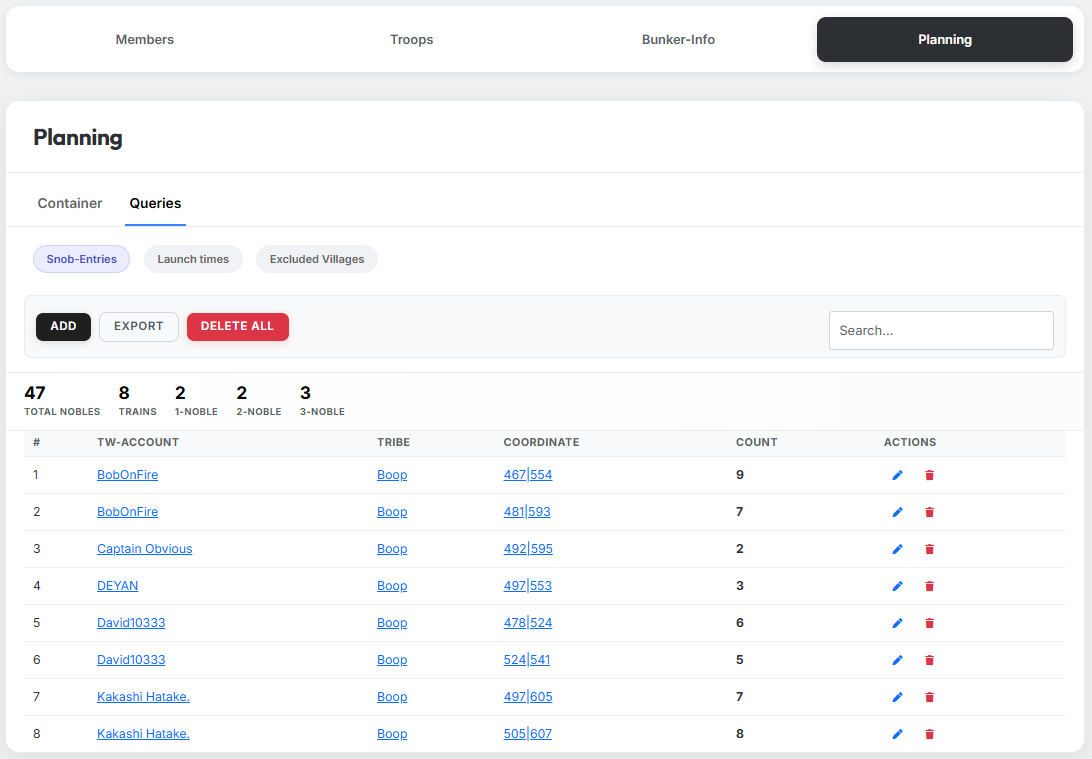
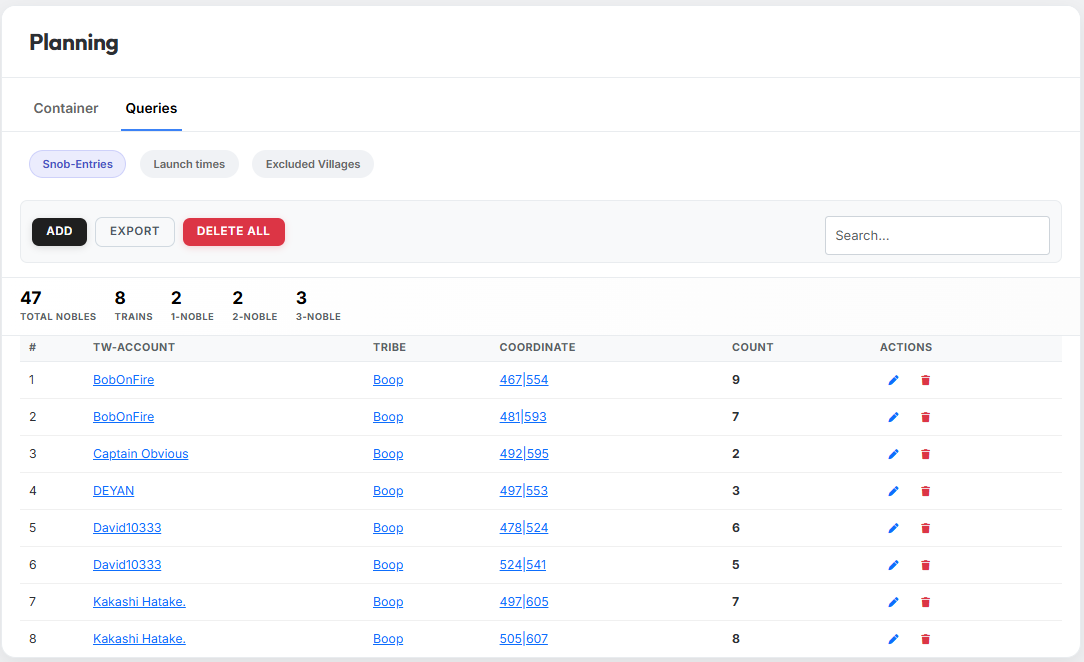
Deployed 3e10325 with MkDocs version: 1.6.1

diff --git a/leader-view/planung/index.html b/leader-view/planung/index.html
@@ -1991,7 +1991,8 @@ gliedert sich in zwei Unterreiter:</p>
 <h2 id="abfragen">Abfragen<a class="headerlink" href="#abfragen" title="Permanent link">¶</a></h2>
 <p>Unter dem Reiter <strong>„Abfragen"</strong> findest du drei Pill-Tabs:
 <strong>AG-Meldungen</strong>, <strong>Abschickzeiten</strong> und <strong>Ausgeplante Dörfer</strong>. Sie
-liefern die drei wichtigsten Inputs für die Off-Planung.</p>
+liefern die drei wichtigsten Inputs für die Off-Planung, welche von
+den Stammesmembern bereitgestellt werden müssen.</p>
 <div class="admonition info">
 <p class="admonition-title">Daten kommen i. d. R. aus dem Discordbot</p>
 <p>AG-Meldungen, Abschickzeiten und ausgeplante Herkunftsdörfer geben
@@ -2002,9 +2003,8 @@ Leader können aber jederzeit auch manuell Einträge anlegen,
 bearbeiten oder löschen.</p>
 </div>
 <h3 id="ag-meldungen">AG-Meldungen<a class="headerlink" href="#ag-meldungen" title="Permanent link">¶</a></h3>
-<p>In diesem Bereich sammelst du Meldungen, wie viele AGs welcher Spieler
-auf welche Zieldörfer fertig hat. Die Liste ist die Basis für die
-spätere AG-Planung.</p>
+<p>In diesem Bereich werden die AG-Meldungen verwaltet. Die Liste ist die
+Basis für die spätere AG-Planung.</p>
 <p><a class="glightbox" data-type="image" data-width="auto" data-height="auto" href="../../assets/leaderview/15_leaderview_planning_snobqueries_overview.png" data-title="AG-Meldungen — Übersicht" data-desc-position="bottom"><img alt="AG-Meldungen — Übersicht" class="screenshot" src="../../assets/leaderview/15_leaderview_planning_snobqueries_overview.png"></a></p>
 <p>Oben siehst du eine <strong>Kennzahlen-Leiste</strong>, die alle Meldungen
 zusammenfasst:</p>
@@ -2038,11 +2038,11 @@ zusammenfasst:</p>
 </tr>
 <tr>
 <td><strong>Koordinate</strong></td>
-<td>Zieldorf der Meldung</td>
+<td>Herkunftsdorf der Meldung</td>
 </tr>
 <tr>
 <td><strong>Anzahl</strong></td>
-<td>Wie viele AGs der Spieler auf dieses Zieldorf fertig hat</td>
+<td>Wie viele AGs der Spieler aus diesem Herkunftsdorf fertig hat</td>
 </tr>
 <tr>
 <td><strong>Aktionen</strong></td>
@@ -2056,12 +2056,12 @@ zusammenfasst:</p>
 <p><a class="glightbox" data-type="image" data-width="auto" data-height="auto" href="../../assets/leaderview/16_leaderview_planning_snobqueries_add.png" data-title="AG-Meldung hinzufügen" data-desc-position="bottom"><img alt="AG-Meldung hinzufügen" class="screenshot" src="../../assets/leaderview/16_leaderview_planning_snobqueries_add.png"></a></p>
 <p>Der Dialog <strong>„AG-Meldung hinzufügen"</strong> enthält zwei Felder:</p>
 <ul>
-<li><strong>Koordinaten (Text mit Koords)</strong> — eine oder mehrere Zielkoordinaten;
-  umgebender Text wird ignoriert (z. B. <code>Angriff auf 500|500 und
-  501|501…</code>).</li>
-<li><strong>Anzahl AGs (pro Dorf)</strong> — wie viele AGs der Spieler pro Zieldorf
-  fertig hat. Der eingegebene Wert gilt für <strong>alle</strong> in Schritt 1
-  erkannten Koordinaten.</li>
+<li><strong>Koordinaten (Text mit Koords)</strong> — eine oder mehrere
+  Herkunftskoordinaten; umgebender Text wird ignoriert (z. B.
+  <code>AGs fertig in 500|500 und 501|501…</code>).</li>
+<li><strong>Anzahl AGs (pro Dorf)</strong> — wie viele AGs der Spieler pro
+  Herkunftsdorf fertig hat. Der eingegebene Wert gilt für <strong>alle</strong> in
+  Schritt 1 erkannten Koordinaten.</li>
 </ul>
 <h3 id="abschickzeiten">Abschickzeiten<a class="headerlink" href="#abschickzeiten" title="Permanent link">¶</a></h3>
 <p>Hier sammelst du die individuellen Abschickfenster der Spieler — also

diff --git a/en/leader-view/planung/index.html b/en/leader-view/planung/index.html
@@ -1991,7 +1991,8 @@ split into two sub-tabs:</p>
 <h2 id="queries">Queries<a class="headerlink" href="#queries" title="Permanent link">¶</a></h2>
 <p>Under the <strong>"Queries"</strong> sub-tab you'll find three pill tabs:
 <strong>Snob-Entries</strong>, <strong>Launch times</strong> and <strong>Excluded Villages</strong>. They
-provide the three most important inputs for nuke planning.</p>
+provide the three most important inputs for nuke planning and must be
+supplied by the tribe members.</p>
 <div class="admonition info">
 <p class="admonition-title">Data usually comes from the Discord bot</p>
 <p>Snob-Entries, launch times and excluded source villages are
@@ -2001,9 +2002,8 @@ The entries then appear automatically in these lists. Leaders can
 however always create, edit or delete entries manually.</p>
 </div>
 <h3 id="snob-entries">Snob-Entries<a class="headerlink" href="#snob-entries" title="Permanent link">¶</a></h3>
-<p>In this area you collect reports of how many snobs which player has
-ready on which target villages. The list is the basis for the later
-snob planning.</p>
+<p>In this area the snob entries are managed. The list is the basis for
+the later snob planning.</p>
 <p><a class="glightbox" data-type="image" data-width="auto" data-height="auto" href="../../../assets/leaderview/15_leaderview_planning_snobqueries_overview.png" data-title="Snob-Entries — overview" data-desc-position="bottom"><img alt="Snob-Entries — overview" class="screenshot" src="../../../assets/leaderview/15_leaderview_planning_snobqueries_overview.png"></a></p>
 <p>At the top you see a <strong>metrics bar</strong> summarizing all entries:</p>
 <ul>
@@ -2036,11 +2036,11 @@ snob planning.</p>
 </tr>
 <tr>
 <td><strong>Coordinate</strong></td>
-<td>Target village of the entry</td>
+<td>Source village of the entry</td>
 </tr>
 <tr>
 <td><strong>Count</strong></td>
-<td>How many snobs the player has ready on this target village</td>
+<td>How many snobs the player has ready from this source village</td>
 </tr>
 <tr>
 <td><strong>Actions</strong></td>
@@ -2053,11 +2053,11 @@ snob planning.</p>
 <p><a class="glightbox" data-type="image" data-width="auto" data-height="auto" href="../../../assets/leaderview/16_leaderview_planning_snobqueries_add.png" data-title="Add snob entry" data-desc-position="bottom"><img alt="Add snob entry" class="screenshot" src="../../../assets/leaderview/16_leaderview_planning_snobqueries_add.png"></a></p>
 <p>The <strong>"Add snob entry"</strong> dialog contains two fields:</p>
 <ul>
-<li><strong>Coordinates (text with coords)</strong> — one or more target coordinates;
-  surrounding text is ignored (e.g. <code>Attack on 500|500 and
+<li><strong>Coordinates (text with coords)</strong> — one or more source coordinates;
+  surrounding text is ignored (e.g. <code>Snobs ready in 500|500 and
   501|501…</code>).</li>
 <li><strong>Snob count (per village)</strong> — how many snobs the player has ready
-  per target village. The entered value applies to <strong>all</strong>
+  per source village. The entered value applies to <strong>all</strong>
   coordinates detected in step 1.</li>
 </ul>
 <h3 id="launch-times">Launch times<a class="headerlink" href="#launch-times" title="Permanent link">¶</a></h3>